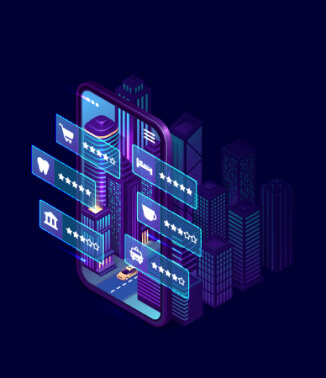
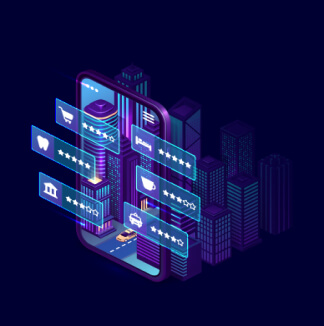
section difference and about without overlay

diff --git a/src/pages/index.html b/src/pages/index.html
@@ -89,7 +89,7 @@
             </p>
           </li>
           <li class="difference-vr__cards-item">
-            <img src="../images/mobile.jpg" alt="Смартфон" class="difference-vr__cards-image" />
+            <img src="../images/difference-vr-mobile.jpg" alt="Смартфон" class="difference-vr__cards-image" />
             <h2 class="difference-vr__cards-title text">Дополненная реальность</h2>
             <p class="difference-vr__cards-description text">
               Технология, с помощью которой в видимую действительность
@@ -214,17 +214,17 @@
         <div class="about__company">
           <p class="about__company-text text">Нам доверяют:</p>
           <div class="about__logo-container">
-             <a class="about__link" href="https://megafon.ru/">
-              <img class="about__logo-megafon" src="../images/megafon-logo.png" alt="Логотип Мегфон">
+             <a class="about__link" href="https://megafon.ru/" target="_blank">
+              <img class="about__logo-megafon" src="../images/about-megafon-logo.png" alt="Логотип Мегфон">
              </a>
-             <a href="https://www.gazprom.ru/" class="about__link" alt="Логотип Газпром">
-             <img class="about__logo-gazprom" src="../images/gazprom-logo.png"></img>
+             <a href="https://www.gazprom.ru/" class="about__link" alt="Логотип Газпром" target="_blank">
+             <img class="about__logo-gazprom" src="../images/about-gazprom-logo.png"></img>
             </a>
             <a class="about__link" href="https://megafon.ru/">
-              <img class="about__logo-megafon" src="../images/megafon-logo.png" alt="Логотип Мегфон">
+              <img class="about__logo-megafon" src="../images/about-megafon-logo.png" alt="Логотип Мегфон" target="_blank">
              </a>
-             <a href="https://www.gazprom.ru/" class="about__link" alt="Логотип Газпром">
-             <img class="about__logo-gazprom" src="../images/gazprom-logo.png"></img>
+             <a href="https://www.gazprom.ru/" class="about__link" alt="Логотип Газпром" target="_blank">
+             <img class="about__logo-gazprom" src="../images/about-gazprom-logo.png"></img>
             </a>
 
              </div>

diff --git a/src/blocks/about/about.css b/src/blocks/about/about.css
@@ -1,9 +1,10 @@
 .about {
   background: url(../../images/about.png);
-  background-position: right bottom;
+  background-position: right;
   background-repeat: no-repeat;
-  min-height: 792px;
+  background-size: contain;
   padding-left: 155px;
+  padding-bottom: 43px;
   z-index: -1;
 }
 
